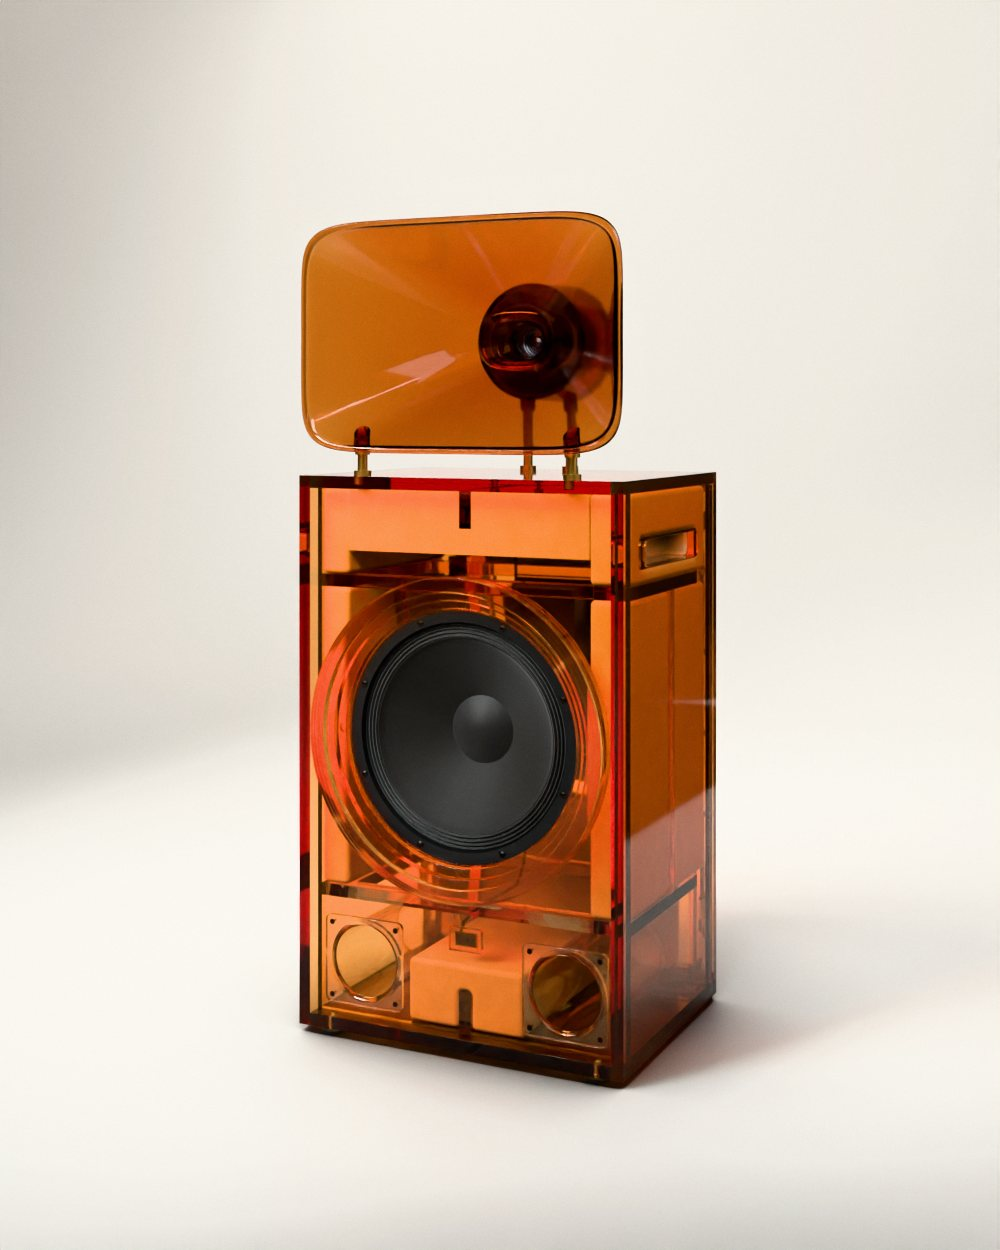
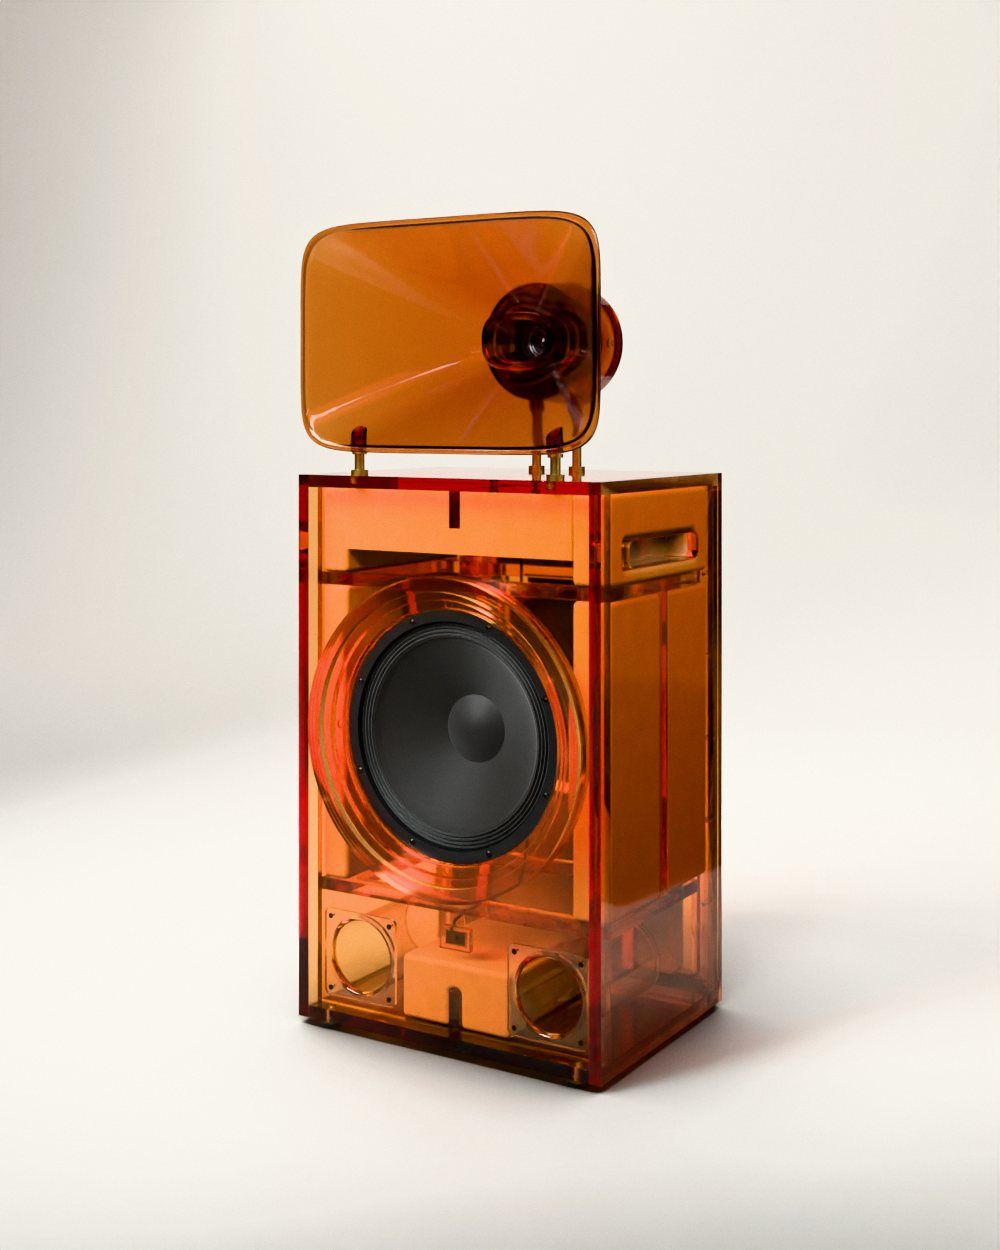
Stage tallr6 fronts: Dust, Fog; not republished
Claude-Session: https://claude.ai/code/session_01BAaPTm6ZnW6Wr5zqpr5BWJ

Changed region(s): [[0.279, 0.156, 0.744, 0.8736], [0.341, 0.156, 0.434, 0.1872], [0.434, 0.5616, 0.465, 0.5928]]

diff --git a/spinoffs/barkhorn/brandbook/make_book.py b/spinoffs/barkhorn/brandbook/make_book.py
@@ -36,11 +36,11 @@ PINNED = {'room.jpg': ('754e16a9852f364fb2ebe8eb752c10ab6bdc0e23', 'renders/2026
           'lamps-orbs.jpg': ('735e759304b00400750741d5038722a3d4d5f5fb', 'renders/2026-10-31/barkhorn/lamps-cordless/site-img/lamps-orbs.jpg'),
           'honest-a-ice.jpg': ('f7f03850edb54dfc9ccbe0cc2655b194cafc1232', 'renders/2026-11-03/barkhorn/base-question/gate2/A-ice-polished-honest.png'),
           'honest-front-ember.jpg': ('4fcc28f879d93486c22844a2630b17df1b2e6013', 'renders/2026-11-04/barkhorn/rollout/A-polished-tallr6/site-front-off-tall-ember.png'),
-          'honest-front-dust.jpg': ('0690b93c8f9726dfbbf990cb7de3d9aeb7422a2f', 'renders/2026-11-04/barkhorn/rollout/A-polished-tallr3/site-front-off-tall-dust.png'),
+          'honest-front-dust.jpg': ('5c8371479a9a2fd63a497c7fc7d4ddb7d6e18ac2', 'renders/2026-11-04/barkhorn/rollout/A-polished-tallr6/site-front-off-tall-dust.png'),
           'honest-front-poison.jpg': ('766f299df9326d6b77b3ab9a96d782aeb320329c', 'renders/2026-11-04/barkhorn/rollout/A-polished-tallr3/site-front-off-tall-poison.png'),
           'honest-front-ice.jpg': ('48dcfd298e39c6e36477a85a9d42e2ecce747968', 'renders/2026-11-04/barkhorn/rollout/A-polished-tallr6/site-front-off-tall-ice.png'),
           'honest-front-haze.jpg': ('94b4534a7684c55e0b3420728f09d12dc6c283f3', 'renders/2026-11-04/barkhorn/rollout/A-polished-tallr3/site-front-off-tall-haze.png'),
-          'honest-front-fog.jpg': ('62bc73a7898ab6b5ee4e24645527e87449454029', 'renders/2026-11-04/barkhorn/rollout/A-polished-tallr3/site-front-off-tall-fog.png'),
+          'honest-front-fog.jpg': ('4e89a8340d5de6efbe02286b639d081432db84f1', 'renders/2026-11-04/barkhorn/rollout/A-polished-tallr6/site-front-off-tall-fog.png'),
           'honest-front-acid.jpg': ('7d741bd64b16731318a1fc724dd5453aefefc66b', 'renders/2026-11-04/barkhorn/rollout/A-polished-tallr6/site-front-off-tall-acid.png'),
           'honest-ice-habitat.jpg': ('0f619953f86129dc54183718e2c50419f37ab820', 'renders/2026-11-03/barkhorn/habitats/ice-portrait-1200x1500.jpg'),
           'honest-amp-ember.jpg': ('488fbec9ed6764c60893e0a2798a6feba9ad296f', 'renders/2026-11-04/barkhorn/rollout/A-polished-p2-backfix/amp-plate-ember.png'),
